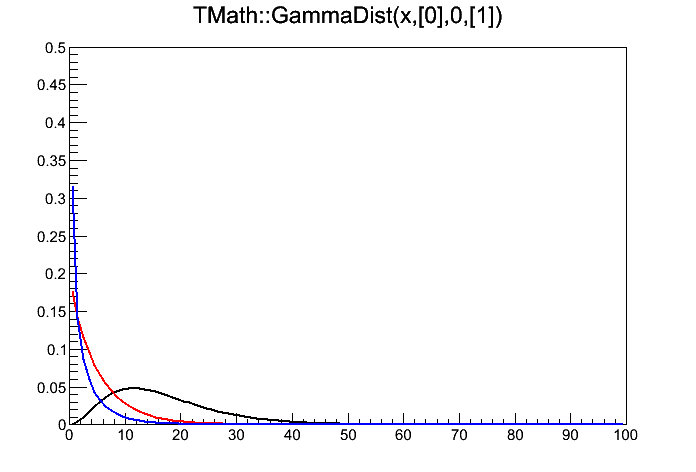
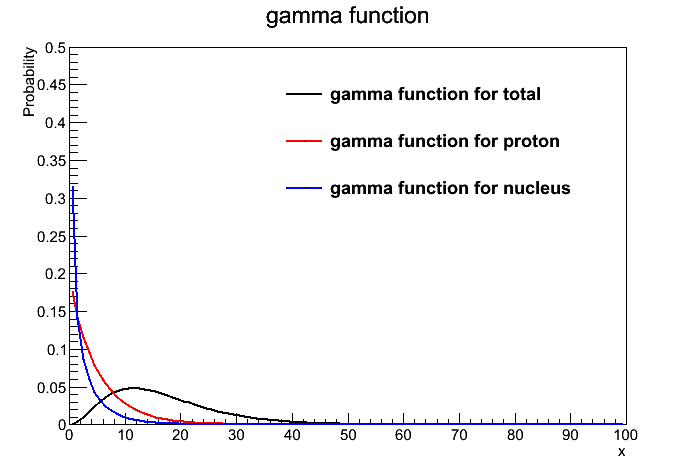
bias fit

diff --git a/centrality/Bias/Draw3modelYvsET.C b/centrality/Bias/Draw3modelYvsET.C
@@ -46,10 +46,22 @@ void Draw3modelYvsET(){
 	gammafun->SetLineColor(1);
 	gammafunevt->SetLineColor(2);
 	gammafunnucl->SetLineColor(4);
+	TLegend *leg = new TLegend(0.4,0.55,0.7,0.85);
+	leg->AddEntry(gammafun,"gamma function for total","lp");
+	leg->AddEntry(gammafunevt,"gamma function for proton","lp");
+	leg->AddEntry(gammafunnucl,"gamma function for nucleus","lp");
+	leg->SetBorderSize(0);
+	leg->SetFillColor(0);
+	leg->SetTextSize(0.04);
 	gammafun->GetYaxis()->SetRangeUser(0,0.5);
+	gammafun->SetTitle("gamma function");
+	gammafun->GetXaxis()->SetTitle("x");
+	gammafun->GetYaxis()->SetTitle("Probability");
 	gammafun->Draw();	
 	gammafunevt->Draw("same");	
 	gammafunnucl->Draw("same");	
+	leg->Draw("same");
+
 
 	TH2D *UCM = new TH2D("UCM","UCM",100,0,100,200,0,40);
 	TH2D *PCM = new TH2D("PCM","PCM",100,0,100,200,0,40);
